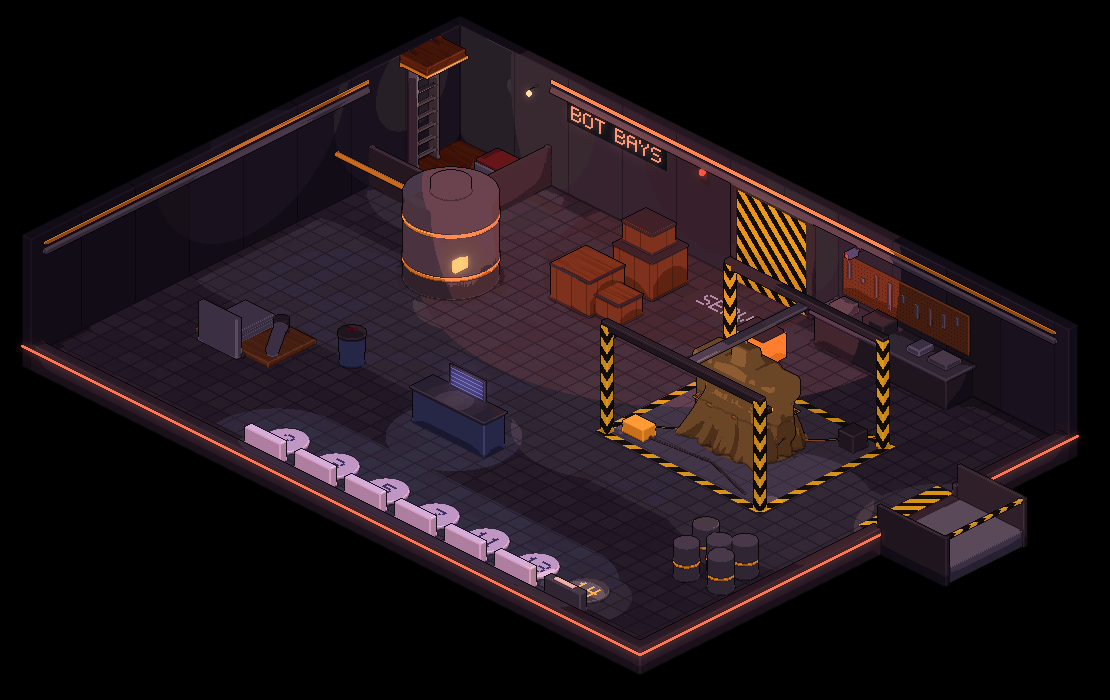
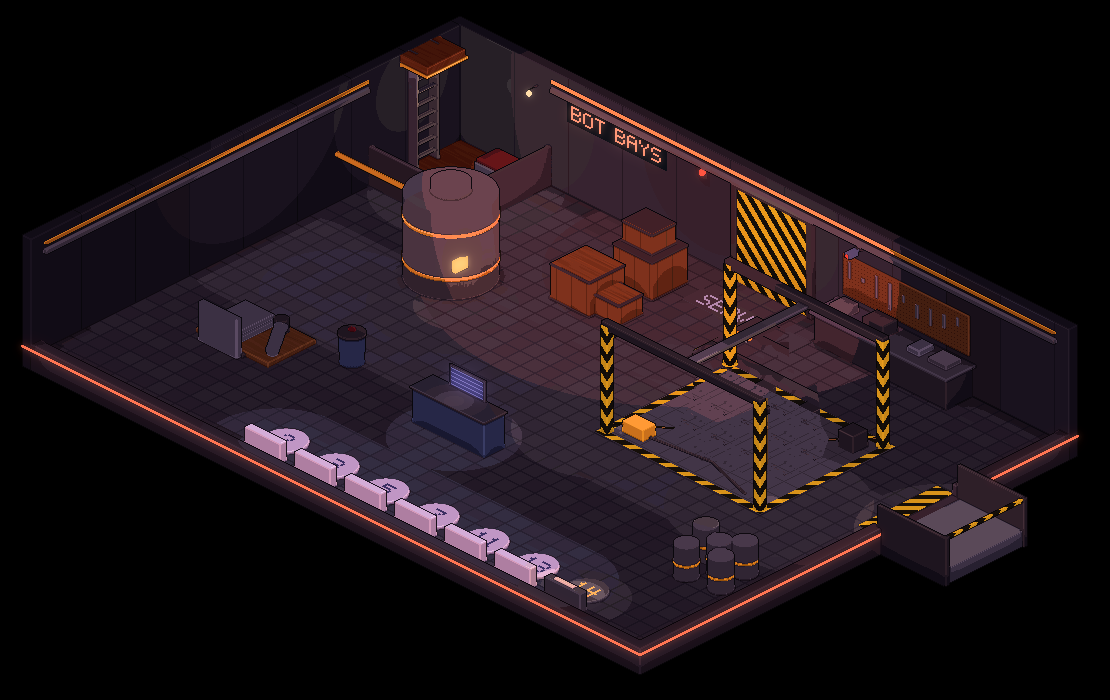
The heist starts on the Promenade, outside the bar's door, instead of on deck 6. The Bot bays keep the mech in its frame on heist night (Night), and it's gone in session 4: Alert's art now has the repair frame empty, the separate Heist night mood is gone, and a save left in it moves to Alert

Changed region(s): [[0.6126, 0.48, 0.7351, 0.66]]

diff --git a/scripts/empty_bot_frame.py b/scripts/empty_bot_frame.py
@@ -1,20 +1,29 @@
 #!/usr/bin/env python3
-"""Make the Bot bays' heist-night art: the Night image with the mech and its tarp gone from the repair frame.
+"""Make the Bot bays' Alert art: the red-lit deck with the mech and its tarp gone from the repair frame.
 
-The floor under it is cloned from the same floor elsewhere (tiles repeat every world unit), and the frame's two hidden
-hazard stripes are carried on along their own length. Run it from the repo root:
+Day and Night keep the mech under its tarp, which is how the crew find it on day 2 and on heist night. Alert is
+session 4, when the mercenaries have taken it. The work is done on the Night image, where the floor is easy to tell
+from the tarp: the floor under it is cloned from the same floor elsewhere (tiles repeat every world unit), and the
+frame's two hidden hazard stripes are carried on along their own length. Each new pixel is then given Alert's light,
+taken from the nearest pixel of the same Night colour in the Alert art as it was imported. Run it from the repo root:
 
     uv run --no-project --with pillow python scripts/empty_bot_frame.py
 
-It writes assets/maps/bots/base-heist.png.
+It rewrites assets/maps/bots/base-alert.png and updates its sha256 and size in assets/manifest.yaml.
 """
 
+import hashlib
+import io
+import re
+import subprocess
 from collections import Counter
+from pathlib import Path
 
 from PIL import Image, ImageDraw
 
+IMPORTED = "fb091fc"  # the last commit with the Alert art as it came from the Heist maps canvas, the mech in the frame
 SRC = "assets/maps/bots/base-night.png"
-OUT = "assets/maps/bots/base-heist.png"
+ALERT = "assets/maps/bots/base-alert.png"
 OX, OY = 460, 150
 
 # The frame on the floor, in world units, read off the art.
@@ -37,6 +46,11 @@ def over_tarp(x: int, y: int) -> tuple[bool, bool]:
     post = 665 <= cx <= 735 and cy >= 490
     band = (0.5 * cx + 130 <= cy <= 0.5 * cx + 196 and cx <= 745) or (-0.445 * cx + 425 <= cy <= -0.445 * cx + 492)
     return post, band
+
+
+def imported(path: str) -> Image.Image:
+    data = subprocess.run(["git", "show", f"{IMPORTED}:{path}"], check=True, capture_output=True).stdout
+    return Image.open(io.BytesIO(data)).convert("RGB")
 
 
 def main() -> None:
@@ -100,7 +114,35 @@ def main() -> None:
                 r, g, b = px[x + 30, y + 145]
                 if r > 150 and b < 90 or r + g + b < 60:
                     done[x, y] = (r, g, b)
-    out.save(OUT, optimize=True)
+    relit = relight(px, done, hole, (x0, y0, x1, y1))
+    relit.save(ALERT, optimize=True)
+    data = Path(ALERT).read_bytes()
+    manifest = Path("assets/manifest.yaml")
+    rel = ALERT.removeprefix("assets/")
+    pattern = re.compile(rf'(  - path: {re.escape(rel)}.*\n(?:    (?!sha256).*\n)*?    sha256: ")[0-9a-f]+("\n    bytes: )\d+')
+    text, n = pattern.subn(lambda m: f"{m.group(1)}{hashlib.sha256(data).hexdigest()}{m.group(2)}{len(data)}", manifest.read_text())
+    assert n == 1, rel
+    manifest.write_text(text)
+
+
+def relight(night, empty, hole: set[tuple[int, int]], box: tuple[int, int, int, int]) -> Image.Image:
+    """The Alert art with the hole filled: each new pixel takes Alert's colour at the nearest pixel around the hole
+    whose Night colour is the one the hole now has there, so the red light falls on the bare floor as it does beside it."""
+    alert = imported(ALERT)
+    lit = alert.load()
+    x0, y0, x1, y1 = box
+    around: dict[tuple[int, int, int], list[tuple[int, int]]] = {}
+    for x in range(x0 - 70, x1 + 70):
+        for y in range(y0 - 70, y1 + 70):
+            if (x, y) not in hole and night[x, y] != (0, 0, 0):
+                around.setdefault(night[x, y], []).append((x, y))
+    for x, y in hole:
+        c = empty[x, y]
+        if c not in around:  # a colour only the tarp hid: the closest one that does show
+            c = min(around, key=lambda k: sum((a - b) ** 2 for a, b in zip(k, c)))
+        qx, qy = min(around[c], key=lambda q: (q[0] - x) ** 2 + (q[1] - y) ** 2)
+        lit[x, y] = lit[qx, qy]
+    return alert
 
 
 PERIOD_X = (44, 22)  # one light and dark stripe along each edge, in art pixels

diff --git a/server/tests/test_maps.py b/server/tests/test_maps.py
@@ -188,7 +188,7 @@ async def test_the_heist_maps_are_separate_with_day_night_alert(engine):
         assert [x["id"] for x in gm[m]["moods"]][:3] == ["day", "night", "alert"], m
         assert all(x["glow"] is None for x in gm[m]["moods"]), m  # the new art is one flat picture per mood
         assert gm[m]["objects"] and gm[m]["pins"], m
-    assert [x["id"] for x in gm["bots"]["moods"]][3:] == ["heist"]  # the Bot bays also have heist night, with the repair frame empty
+        assert len(gm[m]["moods"]) == 3, m
     assert gm["deck-9"]["objects"][0]["id"] == "signet"
 
 
@@ -269,6 +269,33 @@ def test_a_saved_game_moves_onto_the_heist_maps(tmp_path, content):
     assert e.state.party_map == "deck-6"
     assert "deck-6" in e.state.station and "executive" not in e.state.station
     project(e.state, content, GM)  # and it still goes out
+
+
+def test_the_mech_is_in_the_bot_bays_on_heist_night_and_gone_by_session_4(content):
+    """The Bot bays' art has the mech in its frame by Day and Night and the frame empty by Alert. Heist night is Night,
+    and every session 4 preset is Alert."""
+    assert content.presets["session-3-heist"].maps["bots"].mood == "night"
+    four = [p for p in content.presets.values() if p.session == "Session 4"]
+    assert len(four) == 4 and all(p.maps["bots"].mood == "alert" for p in four)
+
+
+def test_the_heist_starts_on_the_promenade(content):
+    """Getting up to deck 6 is part of the night: the crew start in the street, with the party's map there too."""
+    p = content.presets["session-3-heist"]
+    assert p.party_map == "promenade"
+    assert {t.map for t in p.tokens if t.kind == "crew"} == {"promenade"}
+
+
+def test_a_game_saved_in_the_bot_bays_old_heist_night_mood_moves_to_alert(tmp_path, content):
+    """Heist night, the frame empty, was its own mood: a save left in it is in Alert now, which is that same empty frame."""
+    store = Store(tmp_path / "w.db")
+    Engine(content, store)
+    old = GameState.model_validate(store.load_snapshot()[1])
+    old.maps["bots"].mood = "heist"
+    store.commit("system", None, [], old.model_dump(mode="json"), {})
+    e = Engine(content, store)
+    assert e.state.maps["bots"].mood == "alert"
+    project(e.state, content, GM)
 
 
 async def test_the_terminal_rooms_face_and_feed(engine):

diff --git a/server/lso/engine.py b/server/lso/engine.py
@@ -27,6 +27,10 @@ RENAMED_NPCS = {
     "pilgrim-young": "passenger-young",
 }
 
+# Mood ids that changed, (map, old) to new. The Bot bays' Heist night, the repair frame empty, became its Alert
+# (2026-11-12): the mech is still there on heist night, and gone once the decks are on alert.
+RENAMED_MOODS = {("bots", "heist"): "alert"}
+
 
 class Engine:
     def __init__(self, content: Content, store: Store, rng=None, clock=time.time, sandbox: bool = False):
@@ -54,6 +58,7 @@ class Engine:
             self._heist_maps()  # first: the checks below would stop at a map that's gone on purpose
             self._story_update()  # likewise, for an item, an NPC and Codex pages that are gone on purpose
             self._renamed_npcs()  # and NPCs that only changed id
+            self._renamed_moods()
             self._check_refs()
             self._add_new_maps()
             self._update_rules()
@@ -154,6 +159,17 @@ class Engine:
         if events:
             self._commit("system", None, events, {})
             log.info("renamed %d NPC tokens", len(events))
+
+    def _renamed_moods(self) -> None:
+        """A map left in a mood whose id changed takes the new id. Safe to run on every boot."""
+        events = [
+            ("map.mood_set", {"map": m_id, "mood": RENAMED_MOODS[m_id, ms.mood]})
+            for m_id, ms in self.state.maps.items()
+            if (m_id, ms.mood) in RENAMED_MOODS
+        ]
+        if events:
+            self._commit("system", None, events, {})
+            log.info("renamed the mood of %s", ", ".join(e[1]["map"] for e in events))
 
     def _add_new_maps(self) -> None:
         """A game saved before a map existed has no state for it: give it the default preset's (or its first mood)."""

diff --git a/docs/planning/2026-11-04-build-plan.md b/docs/planning/2026-11-04-build-plan.md
@@ -1,6 +1,6 @@
 # Last Stable Orbit: recommended build plan
 
-## Progress (updated 2026-11-10)
+## Progress (updated 2026-11-12)
 
 | Milestone | Status |
 |---|---|
@@ -28,7 +28,7 @@
 | The soundboard | **Built** 2026-11-10 from `lso_soundboard.zip` and checked in the sandbox with the GM and the TV connected. `content/soundboard.yaml` lists 24 clips under four buttons on the GM's top bar (Fight, Droid, Heist, Bits), left of Live. `gm.sound.play` puts the press in the state, and only the TV gets the files and plays them, overlapping, already decoded. Greyed out with no TV connected. Parker needs `git pull && make up`. |
 | Camera cones removed | **Done** 2026-11-10, at Peter's request: no cones on any map and no Hide/Show button, and the maps' `cameras` data and switch are gone (the numbers are in git history if they're ever wanted). The notes below about cones are history. The TV's camera is a different thing and stays. Cameras as a story fact stay too: the art, the GM's pins and the object texts |
 | M9: Finale screen | Not started |
-| Who's where, sessions 1 to 4 | **Done, as drafts for Peter.** Session 4 is four presets: The shotgun (the crew at the founder's table, Dax behind them, the hired guns, Lucan, his brute and his dog hidden below the street door; its card is its own crop, `assets/presets/shotgun.png`, because every bar mood is in the players' view), The hidey-hole (Irena in the Bot bays, the frame empty), The probe run (the crew out of the service door, the fixer's mercenaries holding the company lift, decks 6 to 9 and the Secure floor beside guards on alert, and the mech and Lucan's dog hidden together on the Secure floor's empty cradle), and The lift station (two hired guns at the blast door, Lucan hidden on the glass, and the mech and the dog hidden in the freight hall in case the crew skip the probe). Session 1's presets are placed map by map. Session 2 is two presets: The Vigil, which opens with the Secure floor packed, and The afternoon, with the offices and Promenade full. The spider mech has no token until its fight, and on heist night it's missing from the Bot bays' art: the Heist night mood's image has the repair frame empty (`scripts/empty_bot_frame.py`). Session 3 is one preset, The heist, from the Heist playground's Night layer with more guards. Hidden spares wait in the black off the map art, and cameras start off in every preset. Dock 7's rails are redrawn as one four-lane queue (`scripts/redraw_dock_rails.py`). BOLT-7 is an NPC with his cyan portrait. The GM's Load it sits on the card and goes to the party's Scene. The TV camera bar is Crew, Rolls, the crew's faces and In this map, with no zoom or pan, and it can follow an NPC. Art now revalidates, so a changed file shows on the next load |
+| Who's where, sessions 1 to 4 | **Done, as drafts for Peter.** Session 4 is four presets: The shotgun (the crew at the founder's table, Dax behind them, the hired guns, Lucan, his brute and his dog hidden below the street door; its card is its own crop, `assets/presets/shotgun.png`, because every bar mood is in the players' view), The hidey-hole (Irena in the Bot bays, the frame empty), The probe run (the crew out of the service door, the fixer's mercenaries holding the company lift, decks 6 to 9 and the Secure floor beside guards on alert, and the mech and Lucan's dog hidden together on the Secure floor's empty cradle), and The lift station (two hired guns at the blast door, Lucan hidden on the glass, and the mech and the dog hidden in the freight hall in case the crew skip the probe). Session 1's presets are placed map by map. Session 2 is two presets: The Vigil, which opens with the Secure floor packed, and The afternoon, with the offices and Promenade full. The spider mech has no token until its fight. It's in the Bot bays' art, under its tarp, by Day and by Night, which covers day 2 and heist night; the Alert art has the repair frame empty (`scripts/empty_bot_frame.py`), and every session 4 preset uses it (changed 2026-11-12: the old Heist night mood is gone, and a save left in it moves to Alert). Session 3 is one preset, The heist: the crew start on the Promenade, outside the bar's door, and upstairs is the Heist playground's Night layer with more guards (23 against the playground's 8; the numbers are waiting on Peter). Hidden spares wait in the black off the map art, and cameras start off in every preset. Dock 7's rails are redrawn as one four-lane queue (`scripts/redraw_dock_rails.py`). BOLT-7 is an NPC with his cyan portrait. The GM's Load it sits on the card and goes to the party's Scene. The TV camera bar is Crew, Rolls, the crew's faces and In this map, with no zoom or pan, and it can follow an NPC. Art now revalidates, so a changed file shows on the next load |
 
 **The GM's Session and On screen pages** (2026-11-09, from the canvas https://claude.ai/artifact/6pNMrKUZbm3k9d1wy24Rm5):
 - **On screen** now has everything but the session picker: the opening as Cutscenes' first row, the TV's status beside its heading, and the link and wifi as one switch. With no TV, the setup line sits inside the preview.
